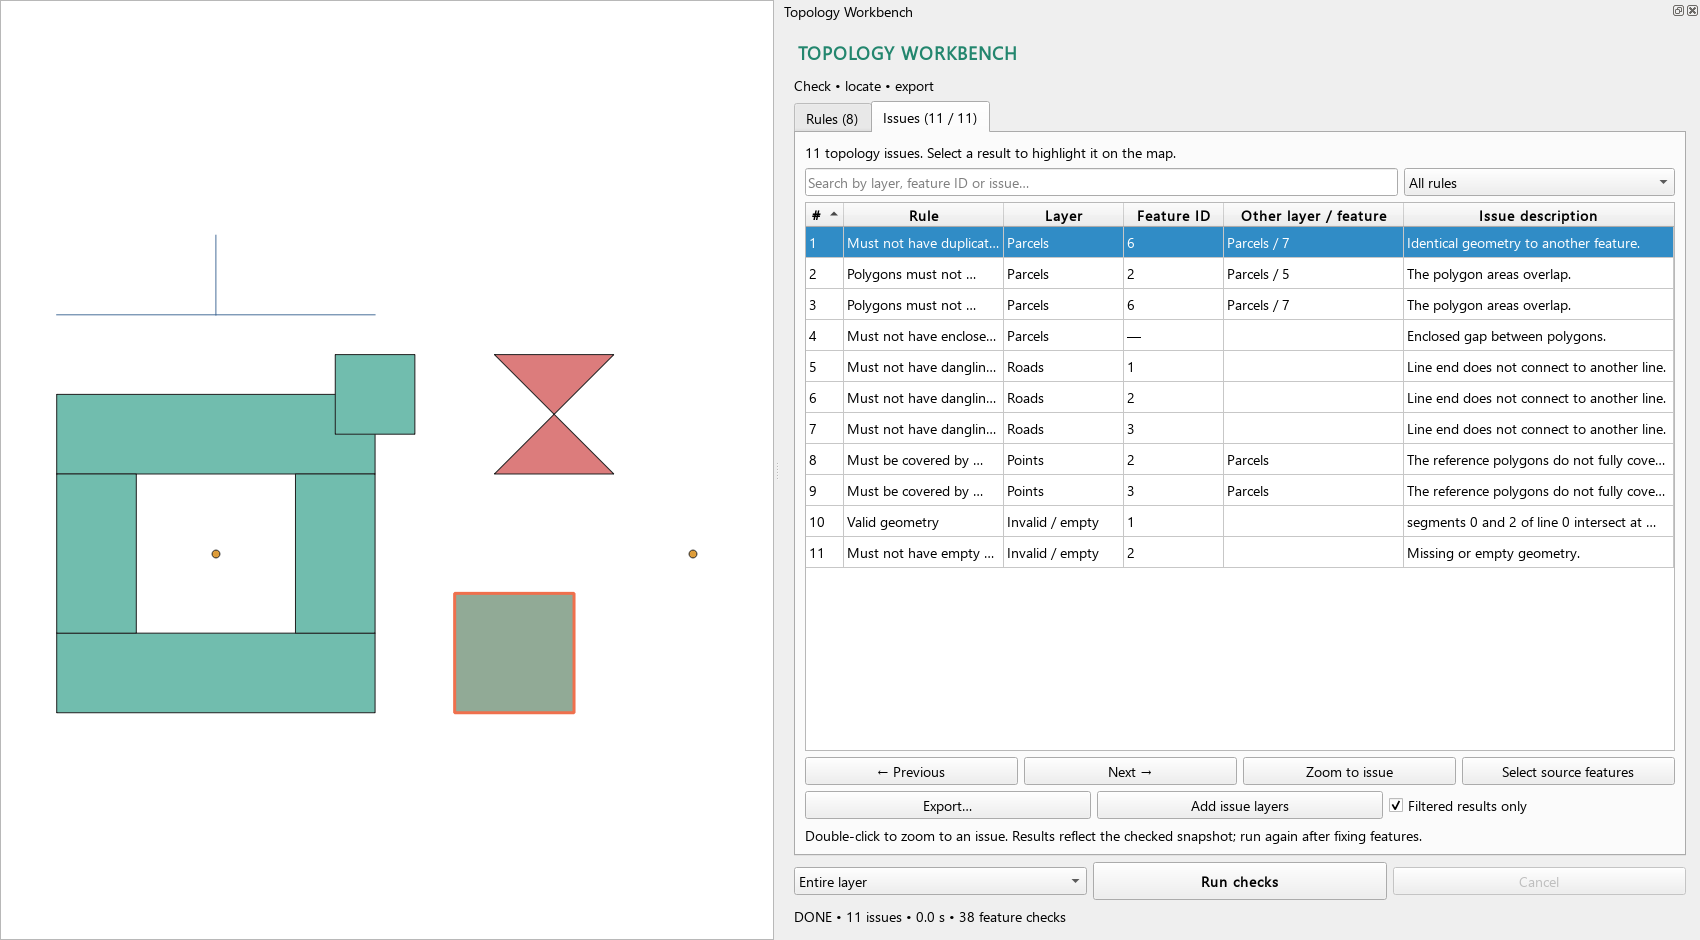
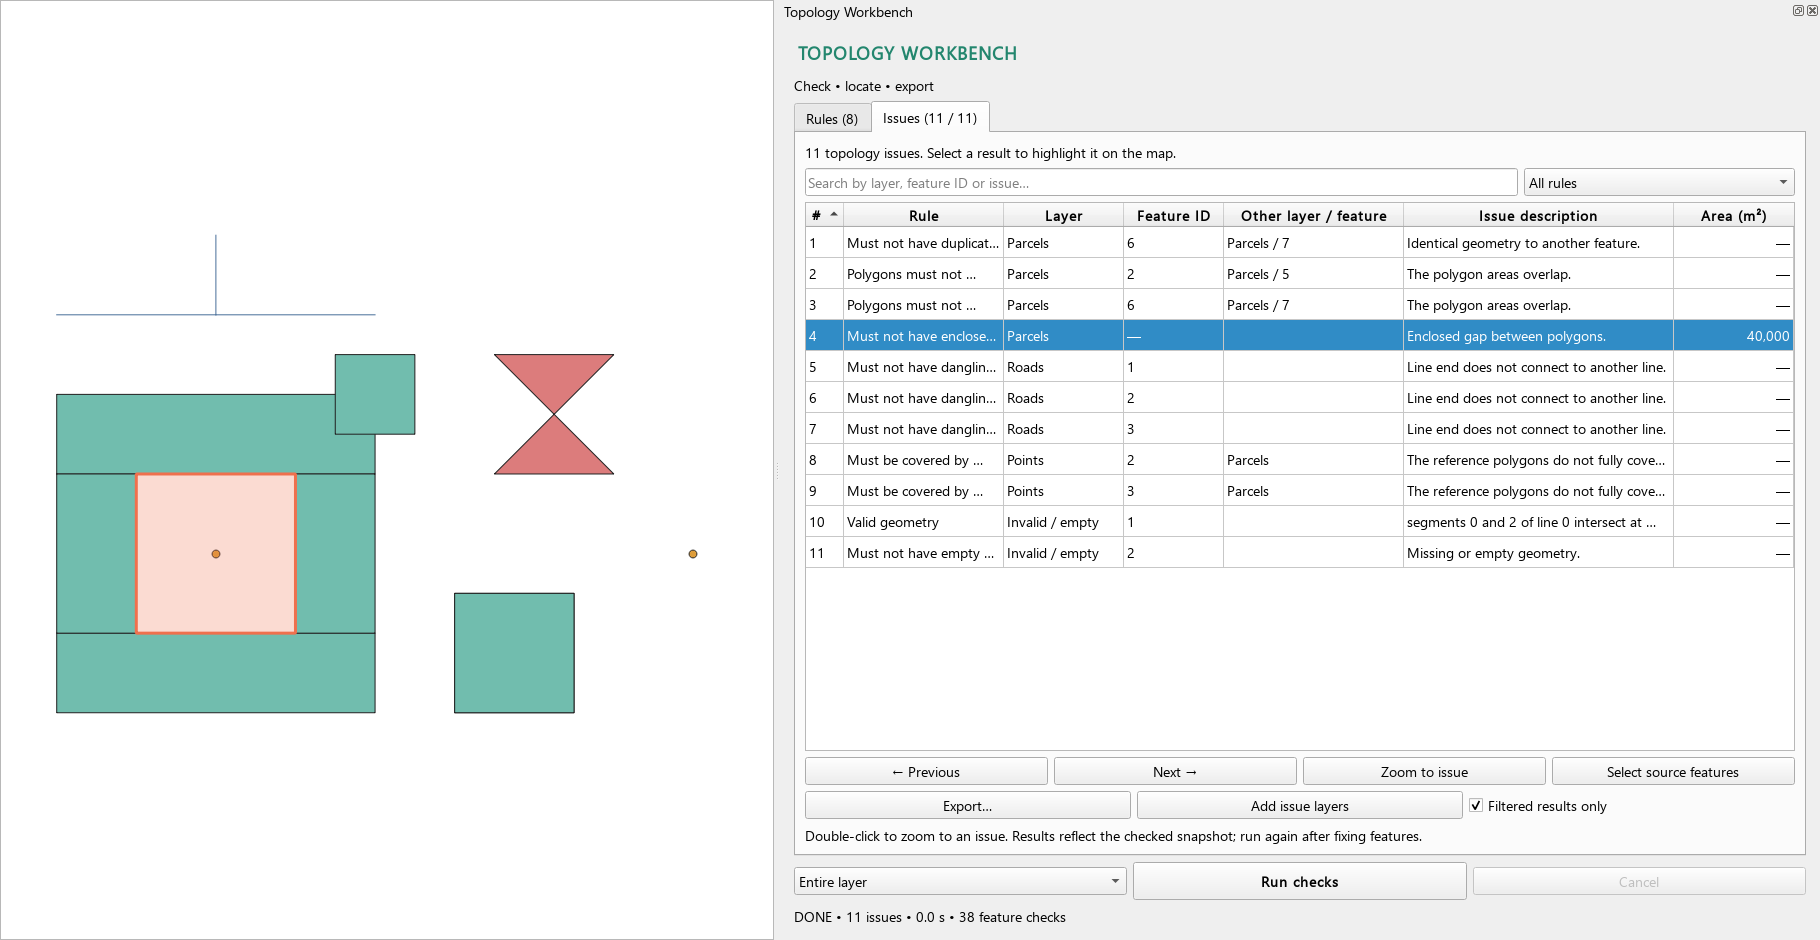
Show enclosed gap area in results and exports

diff --git a/tests/test_qgis.py b/tests/test_qgis.py
@@ -33,7 +33,7 @@ from topology_workbench.i18n import (
     CONTEXT, PluginTranslation, hungarian_catalog, language_for_locale, qgis_locale, tr,
 )
 from topology_workbench.models import DEFINITIONS, RULES
-from topology_workbench.results import IssueModel
+from topology_workbench.results import IssueModel, IssueFilter
 
 APP = QgsApplication([], True)
 APP.initQgis()
@@ -172,7 +172,72 @@ class QgisTests(unittest.TestCase):
         report = self.run_rule("gaps", self.frame())
         self.assert_count(report, 1)
         self.assertAlmostEqual(report.issues[0].geometry.area(), 4)
+        self.assertAlmostEqual(report.issues[0].area_m2, 4)
         self.assertIsNone(report.issues[0].feature_id)
+
+    def test_gap_area_survey_feet_to_square_metres(self):
+        layer = self.frame()
+        layer.setCrs(QgsCoordinateReferenceSystem("EPSG:2263"))
+        report = self.run_rule("gaps", layer)
+        self.assert_count(report, 1)
+        self.assertAlmostEqual(report.issues[0].area_m2, 4 * (1200 / 3937) ** 2, places=6)
+
+    def test_gap_area_geographic_latitude_changes_measurement(self):
+        areas = []
+        for latitude in (0, 60):
+            ring = f"POLYGON((0 {latitude},4 {latitude},4 {latitude+4},0 {latitude+4},0 {latitude})," \
+                   f"(1 {latitude+1},1 {latitude+3},3 {latitude+3},3 {latitude+1},1 {latitude+1}))"
+            layer = self.layer("Polygon", [ring], crs="EPSG:4326")
+            report = self.run_rule("gaps", layer)
+            self.assert_count(report, 1)
+            areas.append(report.issues[0].area_m2)
+        self.assertGreater(areas[0], 49e9)
+        self.assertLess(areas[0], 50e9)
+        self.assertGreater(areas[1] / areas[0], 0.45)
+        self.assertLess(areas[1] / areas[0], 0.50)
+
+    def test_gap_area_numeric_sort_and_small_value_display(self):
+        issue = self.run_rule("gaps", self.frame()).issues[0]
+        from dataclasses import replace
+        model = IssueModel()
+        model.replace([replace(issue, area_m2=value) for value in (10.0, 2.0, None, 0.000001)])
+        proxy = IssueFilter()
+        proxy.setSourceModel(model)
+        proxy.sort(6, Qt.SortOrder.AscendingOrder)
+        self.assertEqual([item.area_m2 for item in proxy.visible_issues()], [None, 0.000001, 2.0, 10.0])
+        proxy.sort(6, Qt.SortOrder.DescendingOrder)
+        self.assertEqual([item.area_m2 for item in proxy.visible_issues()], [10.0, 2.0, 0.000001, None])
+        displayed = model.index(3, 6).data()
+        value, ok = model.locale.toDouble(displayed)
+        self.assertTrue(ok)
+        self.assertAlmostEqual(value, 0.000001, places=12)
+        self.assertEqual(model.index(2, 6).data(), "—")
+
+    def test_gap_area_csv_and_geopackage_remain_numeric_after_reprojection(self):
+        report = self.run_rule("gaps", self.frame())
+        with tempfile.TemporaryDirectory() as folder:
+            csv_path = Path(folder) / "gaps.csv"
+            export_csv(csv_path, report.issues, report)
+            with csv_path.open(encoding="utf-8-sig", newline="") as stream:
+                row = next(csv.DictReader(stream, delimiter=";"))
+            self.assertEqual(float(row["area_m2"]), 4.0)
+            gpkg_path = Path(folder) / "gaps.gpkg"
+            export_geopackage(gpkg_path, report.issues, report,
+                             QgsCoordinateReferenceSystem("EPSG:4326"), self.project.transformContext())
+            dataset = ogr.Open(str(gpkg_path))
+            layer = dataset.GetLayerByName("topology_multipolygon")
+            field = layer.GetLayerDefn().GetFieldDefn(layer.GetLayerDefn().GetFieldIndex("area_m2"))
+            self.assertEqual(field.GetType(), ogr.OFTReal)
+            feature = layer.GetNextFeature()
+            self.assertEqual(feature.GetField("area_m2"), 4.0)
+            self.assertLess(feature.GetGeometryRef().GetArea(), 1e-8)
+            feature = field = layer = dataset = None
+
+    def test_non_gap_area_exports_as_null(self):
+        report = self.run_rule("duplicates", self.layer("Point", ["POINT(0 0)"] * 2))
+        self.assertIsNone(report.issues[0].area_m2)
+        layers = issue_layers(report.issues, report, self.project.crs(), self.project.transformContext())
+        self.assertEqual(next(layers[0].getFeatures())["area_m2"], None)
 
     def test_open_gap_not_enclosed(self):
         layer = self.layer("Polygon", [rectangle(0, 0, 4, 1), rectangle(0, 3, 4, 4), rectangle(0, 1, 1, 3)])
@@ -481,6 +546,7 @@ class QgisTests(unittest.TestCase):
         self.assertEqual(dock.scope.itemText(0), "Teljes réteg" if hungarian else "Entire layer")
         self.assertEqual(dock.rule_table.horizontalHeaderItem(1).text(), "Szabály" if hungarian else "Rule")
         self.assertEqual(dock.model.headerData(2, Qt.Orientation.Horizontal), "Réteg" if hungarian else "Layer")
+        self.assertEqual(dock.model.headerData(6, Qt.Orientation.Horizontal), "Terület (m²)" if hungarian else "Area (m²)")
         dialog = RuleDialog(self.project, dock)
         self.assertEqual(dialog.windowTitle(), "Új ellenőrzési szabály" if hungarian else "New check rule")
         self.assertIn("Gépelj" if hungarian else "Type", dialog.source.lineEdit().placeholderText())

diff --git a/topology_workbench/results.py b/topology_workbench/results.py
@@ -1,15 +1,16 @@
-from .i18n import tr
-from qgis.PyQt.QtCore import QAbstractTableModel, QModelIndex, QSortFilterProxyModel, Qt
+from .i18n import qgis_locale, tr
+from qgis.PyQt.QtCore import QAbstractTableModel, QLocale, QModelIndex, QSortFilterProxyModel, Qt
 from .compat import USER_ROLE
 from .models import RULES
 
 
 class IssueModel(QAbstractTableModel):
-    HEADERS = ("#", 'Rule', 'Layer', 'Feature ID', 'Other layer / feature', 'Issue description')
+    HEADERS = ("#", 'Rule', 'Layer', 'Feature ID', 'Other layer / feature', 'Issue description', 'Area (m²)')
 
     def __init__(self, parent=None):
         super().__init__(parent)
         self.issues = []
+        self.locale = QLocale(qgis_locale())
 
     def replace(self, issues):
         self.beginResetModel()
@@ -28,7 +29,12 @@ class IssueModel(QAbstractTableModel):
         issue = self.issues[index.row()]
         if role == USER_ROLE:
             return issue
-        if role in (Qt.ItemDataRole.DisplayRole, Qt.ItemDataRole.ToolTipRole):
+        if index.column() == 6:
+            if role in (Qt.ItemDataRole.DisplayRole, Qt.ItemDataRole.ToolTipRole):
+                return "—" if issue.area_m2 is None else self.locale.toString(issue.area_m2, "g", 10)
+            if role == Qt.ItemDataRole.TextAlignmentRole:
+                return Qt.AlignmentFlag.AlignRight | Qt.AlignmentFlag.AlignVCenter
+        if index.column() != 6 and role in (Qt.ItemDataRole.DisplayRole, Qt.ItemDataRole.ToolTipRole):
             other = issue.reference_name
             if issue.reference_feature_id is not None:
                 other += f" / {issue.reference_feature_id}"
@@ -47,6 +53,13 @@ class IssueFilter(QSortFilterProxyModel):
         super().__init__(parent)
         self.query = ""
         self.kind = ""
+
+    def lessThan(self, left, right):
+        if left.column() == 6:
+            issues = self.sourceModel().issues
+            a, b = issues[left.row()].area_m2, issues[right.row()].area_m2
+            return (-1 if a is None else a) < (-1 if b is None else b)
+        return super().lessThan(left, right)
 
     def set_query(self, query):
         self.query = query.casefold().strip()

diff --git a/topology_workbench/exporter.py b/topology_workbench/exporter.py
@@ -15,7 +15,7 @@ from .models import RULES
 
 COLUMNS = ("error_id", "rule_id", "rule", "layer_id", "layer", "feature_id",
            "reference_layer_id", "reference_layer", "reference_feature_id", "message",
-           "source_crs", "source_wkt", "run_complete", "run_stale", "run_scope", "run_started_utc", "run_warnings")
+           "source_crs", "source_wkt", "run_complete", "run_stale", "run_scope", "run_started_utc", "run_warnings", "area_m2")
 
 
 def record(issue, number, report):
@@ -24,7 +24,7 @@ def record(issue, number, report):
             issue.reference_name, "" if issue.reference_feature_id is None else str(issue.reference_feature_id),
             issue.message, issue.crs.authid() or issue.crs.toWkt(), issue.geometry.asWkt(),
             "true" if report.complete else "false", "true" if report.stale else "false", report.scope, report.started_at,
-            " | ".join(report.warnings))
+            " | ".join(report.warnings), issue.area_m2)
 
 
 def export_csv(path, issues, report):
@@ -82,7 +82,8 @@ def issue_layers(issues, report, destination_crs, context):
             if kind not in groups:
                 layer = QgsVectorLayer(kind, f"topology_{kind.lower()}", "memory")
                 layer.setCrs(destination_crs)
-                fields = [QgsField(name, QVariant.Int if name == "error_id" else QVariant.String) for name in COLUMNS]
+                types = {"error_id": QVariant.Int, "area_m2": QVariant.Double}
+                fields = [QgsField(name, types.get(name, QVariant.String)) for name in COLUMNS]
                 if not layer.dataProvider().addAttributes(fields):
                     raise RuntimeError(tr('Could not create the export fields.'))
                 layer.updateFields()

diff --git a/tools/build_demo.py b/tools/build_demo.py
@@ -99,13 +99,13 @@ iface = FakeIface()
 iface.active = parcels
 iface.canvas.setLayers(layers)
 iface.canvas.setExtent(QgsRectangle(-70, -70, 900, 680))
-iface.window.resize(1700, 940)
+iface.window.resize(1820, 940)
 iface.window.setWindowTitle(f"Topology Workbench • QGIS {Qgis.QGIS_VERSION}")
 plugin = classFactory(iface)
 plugin.initGui()
 plugin.show_dock()
 dock = plugin.dock
-iface.window.resizeDocks([dock], [920], __import__("qgis.PyQt.QtCore", fromlist=["Qt"]).Qt.Orientation.Horizontal)
+iface.window.resizeDocks([dock], [1040], __import__("qgis.PyQt.QtCore", fromlist=["Qt"]).Qt.Orientation.Horizontal)
 iface.window.show()
 APP.processEvents()
 iface.window.grab().save(str(output / "workbench-rules.png"))
@@ -113,7 +113,7 @@ snapshots = {layer.id(): LayerSnapshot.capture(layer) for layer in layers}
 report = TopologyEngine(rules, snapshots, project.transformContext()).run()
 assert report.complete, report.warnings
 dock.check_finished(report)
-dock.table.selectRow(0)
+dock.table.selectRow(next(index for index, issue in enumerate(report.issues) if issue.kind == "gaps"))
 iface.canvas.refresh()
 loop = QEventLoop()
 QTimer.singleShot(350, loop.quit)

diff --git a/topology_workbench/measurements.py b/topology_workbench/measurements.py
@@ -1,0 +1,23 @@
+"""Gap areas in square metres, independent of the map/export CRS."""
+import math
+
+from qgis.core import Qgis, QgsDistanceArea, QgsUnitTypes
+from .i18n import tr
+
+
+def gap_area_m2(geometry, crs, context):
+    if crs.isGeographic():
+        measure = QgsDistanceArea()
+        measure.setSourceCrs(crs, context)
+        if not measure.setEllipsoid(crs.ellipsoidAcronym() or "WGS84") or not measure.willUseEllipsoid():
+            raise ValueError(tr('Could not measure the gap area in square metres.'))
+        area = measure.convertAreaMeasurement(measure.measureArea(geometry), Qgis.AreaUnit.SquareMeters)
+    else:
+        units = crs.mapUnits()
+        if units in (Qgis.DistanceUnit.Unknown, Qgis.DistanceUnit.Degrees):
+            raise ValueError(tr('Could not measure the gap area in square metres.'))
+        factor = QgsUnitTypes.fromUnitToUnitFactor(units, Qgis.DistanceUnit.Meters)
+        area = geometry.area() * factor * factor
+    if not math.isfinite(area) or area <= 0:
+        raise ValueError(tr('Could not measure the gap area in square metres.'))
+    return area

diff --git a/tools/verify_package.py b/tools/verify_package.py
@@ -40,6 +40,9 @@ with tempfile.TemporaryDirectory(prefix="topology-package-") as folder:
     from topology_workbench.i18n import language_for_locale
     expected = "Ellenőrzés indítása" if language_for_locale(bootstrap["TEST_LOCALE"]) == "hu" else "Run checks"
     assert plugin.dock.run_button.text() == expected
+    from qgis.PyQt.QtCore import Qt
+    expected_area = "Terület (m²)" if language_for_locale(bootstrap["TEST_LOCALE"]) == "hu" else "Area (m²)"
+    assert plugin.dock.model.headerData(6, Qt.Orientation.Horizontal) == expected_area
     APP.processEvents()
     assert utils.unloadPlugin("topology_workbench")
     iface.window.close()

diff --git a/topology_workbench/engine.py b/topology_workbench/engine.py
@@ -10,6 +10,7 @@ from qgis.core import (
 )
 
 from .models import Issue, Report, RULES
+from .measurements import gap_area_m2
 
 
 @dataclass
@@ -140,6 +141,7 @@ class TopologyEngine:
             rule.id, rule.kind, snapshot.id, snapshot.name, fid, message,
             QgsGeometry(geometry), QgsCoordinateReferenceSystem(snapshot.crs),
             other.id if other else "", other.name if other else "", other_fid,
+            gap_area_m2(geometry, snapshot.crs, self.context) if rule.kind == "gaps" else None,
         ))
 
     def run(self):

diff --git a/topology_workbench/dock.py b/topology_workbench/dock.py
@@ -181,6 +181,7 @@ class WorkbenchDock(QDockWidget):
         self.table.setColumnWidth(2, 120)
         self.table.setColumnWidth(3, 100)
         self.table.setColumnWidth(4, 180)
+        self.table.setColumnWidth(6, 120)
         self.table.doubleClicked.connect(lambda index: self.zoom_issue())
         self.table.selectionModel().selectionChanged.connect(self.highlight_selected)
         layout.addWidget(self.table, 1)

diff --git a/topology_workbench/models.py b/topology_workbench/models.py
@@ -101,6 +101,7 @@ class Issue:
     reference_id: str = ""
     reference_name: str = ""
     reference_feature_id: object = None
+    area_m2: object = None
 
 
 @dataclass

diff --git a/README.md b/README.md
@@ -10,7 +10,7 @@ The screenshot shows the actual Qt plugin widgets and a QGIS map canvas with the
 
 ## Install
 
-1. Download **`topology_workbench-1.1.0.zip`** from the [release page](https://github.com/danzig666/qgis-topology-workbench/releases/latest).
+1. Download **`topology_workbench-1.2.0.zip`** from the [release page](https://github.com/danzig666/qgis-topology-workbench/releases/latest).
 2. In QGIS, open **Plugins → Manage and Install Plugins → Install from ZIP** and select that file.
 3. Enable **Topology Workbench** and open it from its toolbar icon or **Vector → Topology Workbench**.
 
@@ -58,13 +58,15 @@ Controls, rule titles/descriptions, plugin validation errors, status messages an
 
 **Temporary issue layers** are memory layers; export them to GeoPackage for permanent storage.
 
+**Gap size:** enclosed gaps have an **Area (m²)** column; click its header to sort numerically and find the largest gaps. Projected layers use planar area in their source CRS, converted to square metres (including feet). Geographic layers use ellipsoidal area on the source CRS ellipsoid. This is independent of the current map CRS and project measurement settings. CSV, GeoPackage and temporary issue layers preserve the numeric value as `area_m2`, even when exporting geometries to another CRS. Other issue types leave this field empty. Very small gaps remain visible using significant digits.
+
 Checks run as cancellable QGIS tasks, using owned feature-source snapshots captured on the main thread and spatial indexes for comparisons. The worker does not access live layers, the project or UI widgets. It reads the entire comparison context, even for selected-feature checks.
 
 The default limit is **10,000 issues**, adjustable to **100,000**. Up to **250,000 features per layer** can be read. Reaching a limit, cancellation, failed transforms or skipped invalid geometry produces visibly **incomplete results**, also recorded in exports. Cancellation takes effect after an ongoing GEOS operation finishes. Geometry repairs are performed with QGIS editing tools.
 
 ## Try the demo
 
-Download and extract **`topology_workbench-demo-1.1.0.zip`** from the release, or use the files in [`examples`](examples). Open `topology-demo.qgz` with `topology-demo.gpkg` beside it. Eight saved rules find **11 intentionally introduced issues**: duplicates, overlaps, an enclosed gap, dangling ends, coverage errors, a self-intersection and an empty geometry. The layer names are English; the plugin UI still follows your QGIS language.
+Download and extract **`topology_workbench-demo-1.2.0.zip`** from the release, or use the files in [`examples`](examples). Open `topology-demo.qgz` with `topology-demo.gpkg` beside it. Eight saved rules find **11 intentionally introduced issues**: duplicates, overlaps, an enclosed gap, dangling ends, coverage errors, a self-intersection and an empty geometry. The layer names are English; the plugin UI still follows your QGIS language.
 
 ## Development and verification
 
@@ -79,7 +81,7 @@ python .\tools\package_plugin.py
 
 The PowerShell runner tests both languages by default; use `-Language en_US` or `-Language hu_HU` for one. On Linux/macOS, run `tests/test_qgis.py` using a configured PyQGIS Python environment and set `TOPOLOGY_TEST_LANGUAGE` to the language to test.
 
-The **43 integration tests** exercise real PyQGIS/GEOS operations, background tasks, widgets, locale detection, translation coverage, placeholder preservation, exports and translator cleanup. They pass for both languages on both tested QGIS versions (**172 test executions**). Run `tools/verify_package.py` with QGIS's Python to load the packaged ZIP through QGIS's real plugin loader in an isolated directory. The same `TOPOLOGY_TEST_LANGUAGE` variable controls package-language verification.
+The **48 integration tests** exercise real PyQGIS/GEOS operations, background tasks, widgets, locale detection, translation coverage, placeholder preservation, exports and translator cleanup. They pass for both languages on both tested QGIS versions (**192 test executions**). Run `tools/verify_package.py` with QGIS's Python to load the packaged ZIP through QGIS's real plugin loader in an isolated directory. The same `TOPOLOGY_TEST_LANGUAGE` variable controls package-language verification.
 
 `tools/build_demo.py` regenerates the sample project and actual widget screenshots using QGIS's Python. `tools/package_plugin.py` creates deterministic install/demo ZIPs with SHA-256 checksums using ordinary Python. The GitHub build workflow performs source/translation audits and creates packages; QGIS integration testing is a separate runtime check, not claimed by the package-build workflow.
 

diff --git a/docs/README.hu.md b/docs/README.hu.md
@@ -1,11 +1,11 @@
 # Topology Workbench
 
-Önálló QGIS-bővítmény a topológiai hibák keresésére és feldolgozására, a QGIS felületi nyelvét követő angol és magyar felülettel. Telepíthető csomag: `topology_workbench-1.1.0.zip`, elérhető a [GitHub-kiadásoknál](https://github.com/danzig666/qgis-topology-workbench/releases). [English documentation](../README.md).
+Önálló QGIS-bővítmény a topológiai hibák keresésére és feldolgozására, a QGIS felületi nyelvét követő angol és magyar felülettel. Telepíthető csomag: `topology_workbench-1.2.0.zip`, elérhető a [GitHub-kiadásoknál](https://github.com/danzig666/qgis-topology-workbench/releases). [English documentation](../README.md).
 
 ## Telepítés
 
 1. QGIS → **Bővítmények → Bővítmények kezelése és telepítése → Telepítés ZIP-ből**.
-2. Válaszd a `topology_workbench-1.1.0.zip` fájlt, majd telepítsd és engedélyezd a **Topology Workbench** bővítményt.
+2. Válaszd a `topology_workbench-1.2.0.zip` fájlt, majd telepítsd és engedélyezd a **Topology Workbench** bővítményt.
 3. Nyisd meg az eszközt az eszköztári ikonról vagy a **Vektor → Topology Workbench** menüből.
 
 A plugin QGIS **3.44+ és 4.x** verziókra készült. Valódi QGIS **3.44.9 / Qt5** és **4.2.2 / Qt6** környezetben ellenőrizve. Külső Python-csomagot nem kell telepíteni. A későbbi QGIS-verziók API-változásai további ellenőrzést igényelhetnek.
@@ -46,6 +46,8 @@ A vonalvégek toleranciája a **forrásréteg CRS-ének egységében** értendő
 
 Az ideiglenes hibarétegek memóriarétegek. Tartós tároláshoz exportáld őket GeoPackage-be.
 
+**Hézag mérete:** a belső hézagok területe a **Terület (m²)** oszlopban látható; a fejlécére kattintva számszerűen rendezhető, így a legnagyobb hézagok könnyen megtalálhatók. Vetületi rétegeknél a forrás CRS síkbeli területét számítjuk át négyzetméterre, láb egység esetén is. Földrajzi rétegeknél a forrás CRS ellipszoidján mérünk. Az érték független a térkép CRS-étől és a projekt mérési beállításaitól. A CSV, a GeoPackage és az ideiglenes hibarétegek az `area_m2` mezőben őrzik meg a számszerű értéket akkor is, ha az export geometriája más CRS-be kerül. Más hibatípusoknál a mező üres. A nagyon kis hézagok mérete sem kerekedik nullára.
+
 ## Futás és mérethatárok
 
 A számítás megszakítható QGIS-háttérfeladat. A főszálon készített, saját tulajdonú `QgsVectorLayerFeatureSource` pillanatképekből dolgozik; a háttérszál nem használ élő projektet, térképi felületet vagy rétegobjektumot. Térbeli index csökkenti az elem-összehasonlítások számát. A kiválasztott forrásrétegek teljes geometriai környezetét beolvassa, ezért a kijelöléses vizsgálat is használhat jelentős memóriát.
@@ -70,7 +72,7 @@ python .\tools\package_plugin.py
 
 A `tests/test_qgis.py` valódi PyQGIS/GEOS-integrációs teszteket futtat, a háttérfeladatot és a Qt-felületet is beleértve. A `tools/build_demo.py` a QGIS Pythonjával újragenerálja a mintaprojektet és a felület ellenőrzésére szolgáló képernyőképeket. A csomagolás nem igényel QGIS-t, és nem tartalmaz gyorsítótárakat vagy tesztfájlokat.
 
-Verziónként 43 teszt, angol és magyar felülettel is ellenőrizve. A PowerShell-indító alapértelmezésben mindkét nyelvet teszteli; a `-Language en_US` vagy `-Language hu_HU` kapcsoló egy nyelvre szűkíti a futást. A `tools/verify_package.py` a kész ZIP-et a QGIS valódi bővítménybetöltőjével, ideiglenes mappában ellenőrzi, a felhasználói bővítményprofil módosítása nélkül.
+Verziónként 48 teszt, angol és magyar felülettel is ellenőrizve. A PowerShell-indító alapértelmezésben mindkét nyelvet teszteli; a `-Language en_US` vagy `-Language hu_HU` kapcsoló egy nyelvre szűkíti a futást. A `tools/verify_package.py` a kész ZIP-et a QGIS valódi bővítménybetöltőjével, ideiglenes mappában ellenőrzi, a felhasználói bővítményprofil módosítása nélkül.
 
 API-források: [QGIS háttérfeladatok](https://docs.qgis.org/3.44/en/docs/pyqgis_developer_cookbook/tasks.html), [rétegválasztó](https://api.qgis.org/api/classQgsMapLayerComboBox.html), [geometriaműveletek](https://api.qgis.org/api/classQgsGeometry.html), [vektorfájl-export](https://api.qgis.org/api/classQgsVectorFileWriter.html).
 

diff --git a/CHANGELOG.md b/CHANGELOG.md
@@ -1,5 +1,13 @@
 # Changelog
 
+## 1.2.0 — 2026-10-07
+
+- Show enclosed gap sizes in a sortable, localized Area (m²) column.
+- Convert projected CRS units to square metres; measure geographic CRS gaps on their ellipsoid.
+- Preserve numeric `area_m2` values in CSV, GeoPackage and temporary layers, including when reprojecting exports.
+- Refresh the English screenshot to show a selected 40,000 m² gap.
+- Verify 48 integration tests in each English/Hungarian and QGIS 3.44.9/4.2.2 combination.
+
 ## 1.1.0 — 2026-10-07
 
 - Follow the QGIS interface language: English or Hungarian, with English fallback for other languages.
